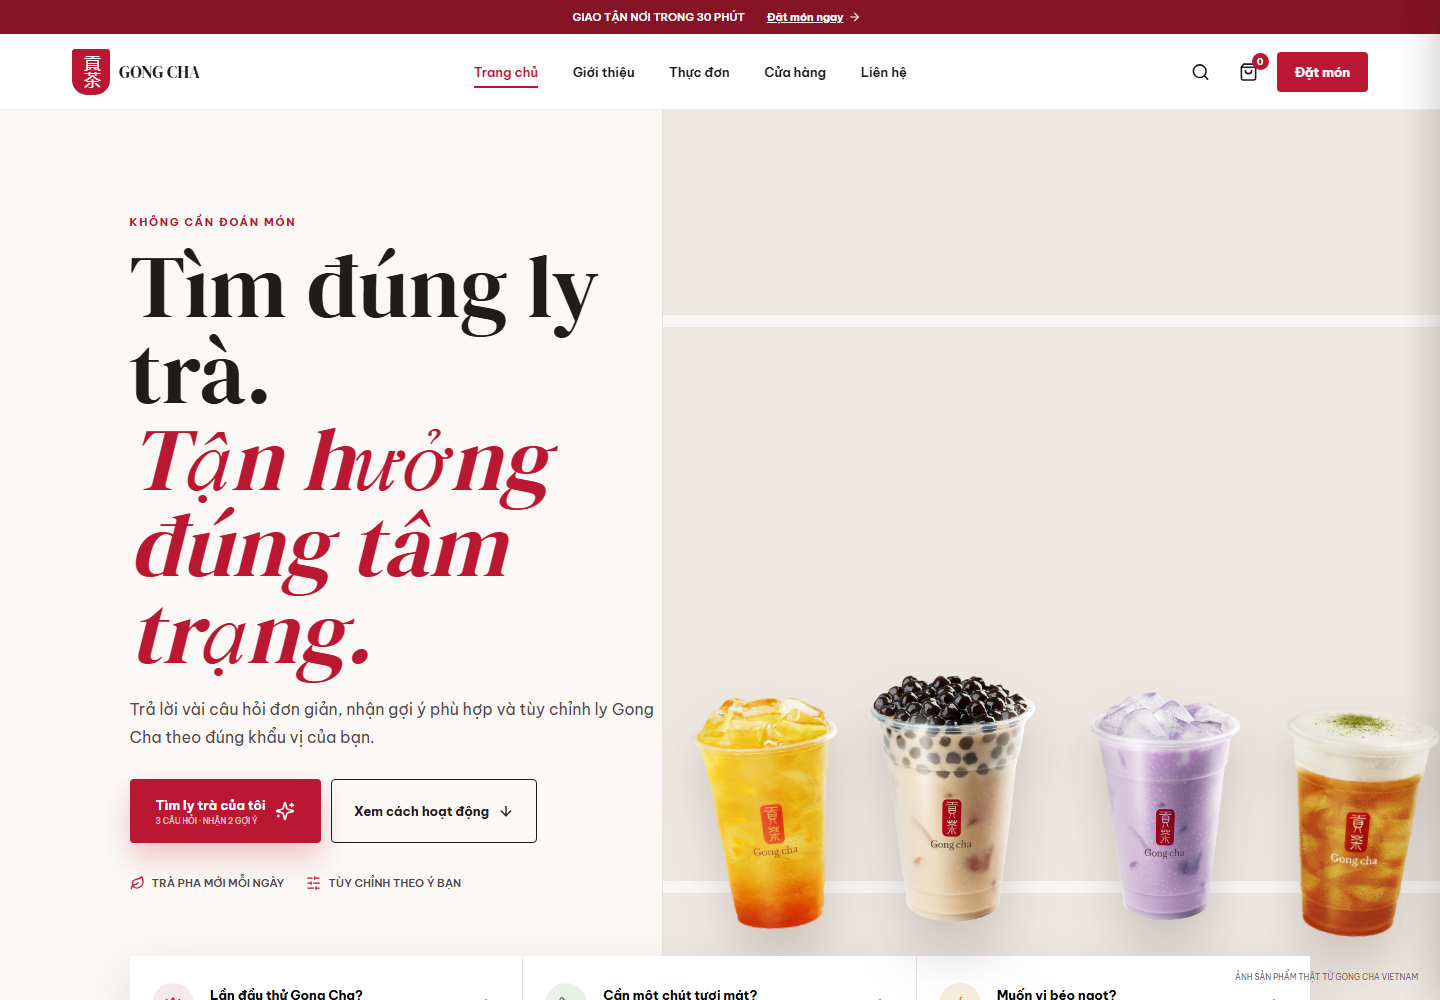
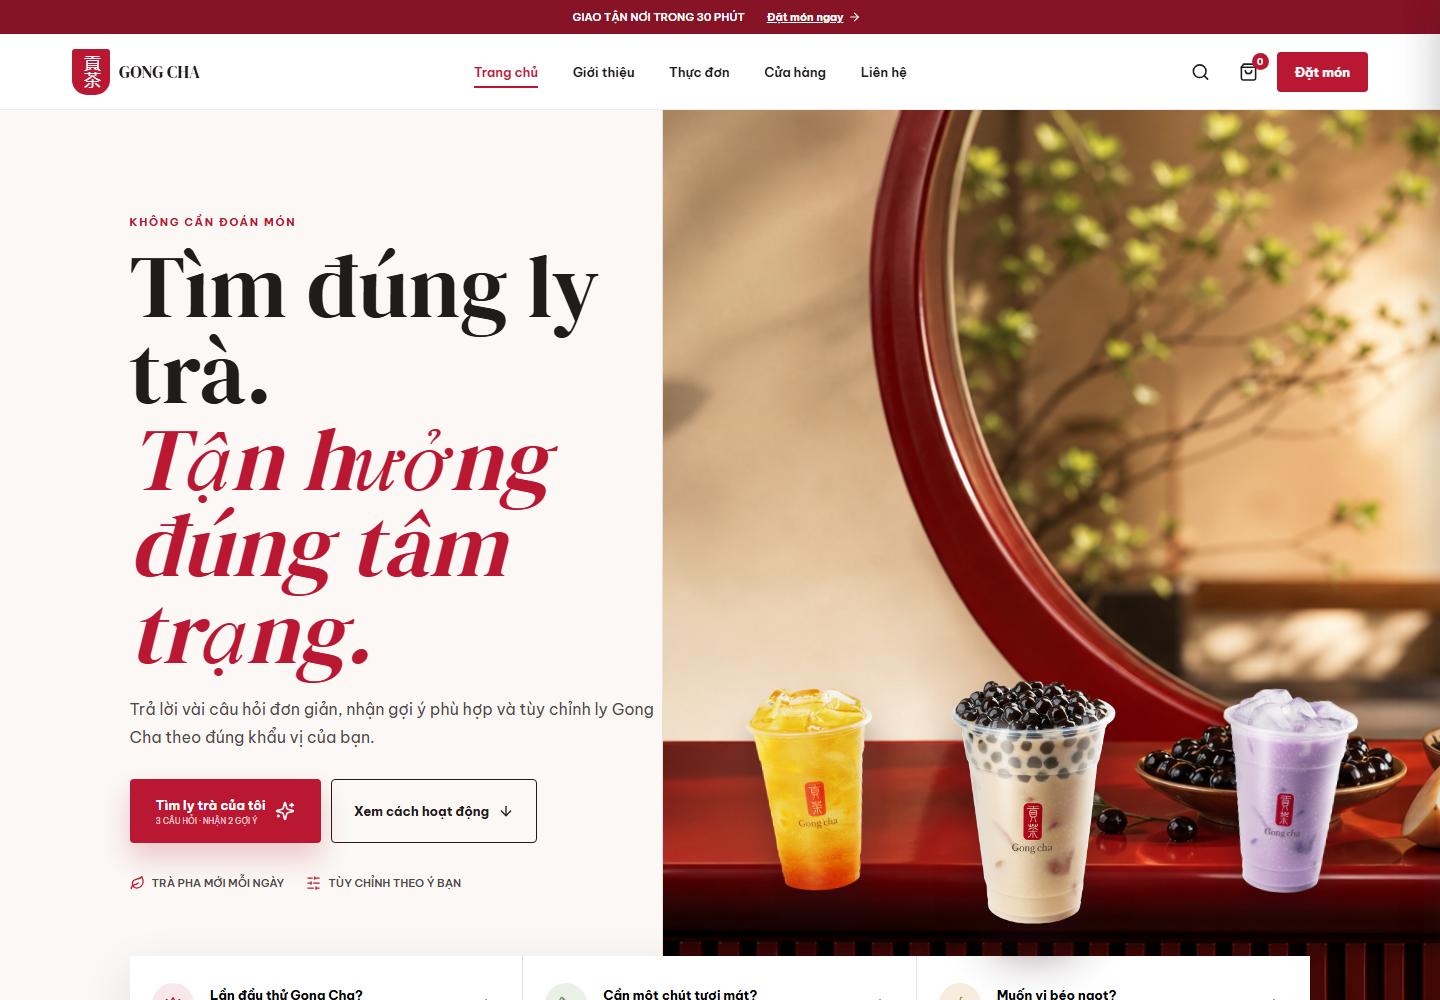
Create premium tea-house hero visual

diff --git a/styles.css b/styles.css
@@ -160,40 +160,19 @@ a { color: inherit; text-decoration: none; }
   inset: 0 0 0 auto;
   overflow: hidden;
   border-left: 1px solid var(--line);
-  background: #eee8e2;
-}
-.hero-product-stage::before,
-.hero-product-stage::after {
-  content: "";
-  height: 12px;
-  position: absolute;
-  right: 0;
-  left: 0;
-  background: rgba(255,255,255,.65);
-}
-.hero-product-stage::before { top: 23%; }
-.hero-product-stage::after { bottom: 12%; }
-.hero-product-stage small {
-  position: absolute;
-  right: 22px;
-  bottom: 18px;
-  z-index: 5;
-  color: var(--muted);
-  font-size: 8px;
-  text-transform: uppercase;
+  background: #8e1024 url("assets/hero-tea-house-v2.png") center / cover no-repeat;
 }
 .hero-product {
-  width: min(36%, 340px);
-  max-height: 78%;
+  width: min(35%, 325px);
+  max-height: 68%;
   position: absolute;
   z-index: 2;
   object-fit: contain;
-  filter: drop-shadow(0 30px 24px rgba(75,48,39,.2));
+  filter: drop-shadow(0 32px 20px rgba(35,8,14,.36));
 }
-.hero-product-one { left: -4%; bottom: 6%; transform: rotate(-5deg); }
-.hero-product-two { left: 20%; bottom: 8%; z-index: 4; transform: scale(1.08); }
-.hero-product-three { right: 17%; bottom: 7%; z-index: 3; }
-.hero-product-four { right: -8%; bottom: 5%; transform: rotate(5deg); }
+.hero-product-one { left: 2%; bottom: 9%; transform: rotate(-5deg) scale(.9); }
+.hero-product-two { left: 31%; bottom: 8%; z-index: 4; transform: scale(1.1); }
+.hero-product-three { right: 2%; bottom: 9%; z-index: 3; transform: rotate(4deg) scale(.92); }
 .hero-copy {
   width: min(610px, 45vw);
   margin-left: clamp(20px, 9vw, 145px);
@@ -626,14 +605,10 @@ legend { margin-bottom: 13px; font-size: 11px; font-weight: 700; }
   .hero { min-height: 820px; align-items: flex-start; }
   .hero-image { height: 48%; top: auto; object-position: 66% center; }
   .hero-product-stage { width: 100%; height: 43%; inset: auto 0 0; border-top: 1px solid var(--line); border-left: 0; }
-  .hero-product-stage::before { top: 18%; }
-  .hero-product-stage::after { bottom: 9%; }
-  .hero-product-stage small { right: 12px; bottom: 8px; font-size: 6px; }
-  .hero-product { width: 34%; max-height: 94%; }
-  .hero-product-one { left: -7%; bottom: 0; }
-  .hero-product-two { left: 18%; bottom: 1%; }
-  .hero-product-three { right: 17%; bottom: 0; }
-  .hero-product-four { right: -9%; bottom: 0; }
+  .hero-product { width: 38%; max-height: 76%; }
+  .hero-product-one { left: -1%; bottom: 4%; }
+  .hero-product-two { left: 31%; bottom: 3%; }
+  .hero-product-three { right: -2%; bottom: 4%; }
   .hero-copy { width: calc(100vw - 40px); min-width: 0; max-width: calc(100vw - 40px); margin: 60px 20px 0; flex: 0 0 calc(100vw - 40px); }
   h1 { max-width: 330px; font-size: 43px; overflow-wrap: anywhere; }
   h1 em { display: block; }

diff --git a/index.html b/index.html
@@ -42,12 +42,9 @@
   <main id="top">
     <section class="hero">
       <div class="hero-product-stage" aria-label="Các thức uống thật từ menu Gong Cha">
-        <span class="hero-product-backdrop"></span>
         <img class="hero-product hero-product-one" src="assets/products/peach-green-tea.png" alt="Trà xanh đào Gong Cha">
         <img class="hero-product hero-product-two" src="assets/products/milk-tea-pearl.png" alt="Trà sữa trân châu đen Gong Cha">
         <img class="hero-product hero-product-three" src="assets/products/taro-milk-tea.png" alt="Trà sữa khoai môn Gong Cha">
-        <img class="hero-product hero-product-four" src="assets/products/black-tea-milkfoam.png" alt="Trà đen kem sữa Gong Cha">
-        <small>Ảnh sản phẩm thật từ Gong Cha Vietnam</small>
       </div>
       <div class="hero-overlay"></div>
       <div class="hero-copy">

diff --git a/README.md b/README.md
@@ -44,3 +44,6 @@ the current scope.
 Drink product photography is sourced from the official
 [Gong Cha Vietnam menu](https://gongcha.com.vn/danh-muc/menu-hien-tai/) for this
 non-commercial academic redesign prototype.
+
+The homepage tea-house hero backdrop was AI-generated for this redesign and
+combined with the official product photography above.
